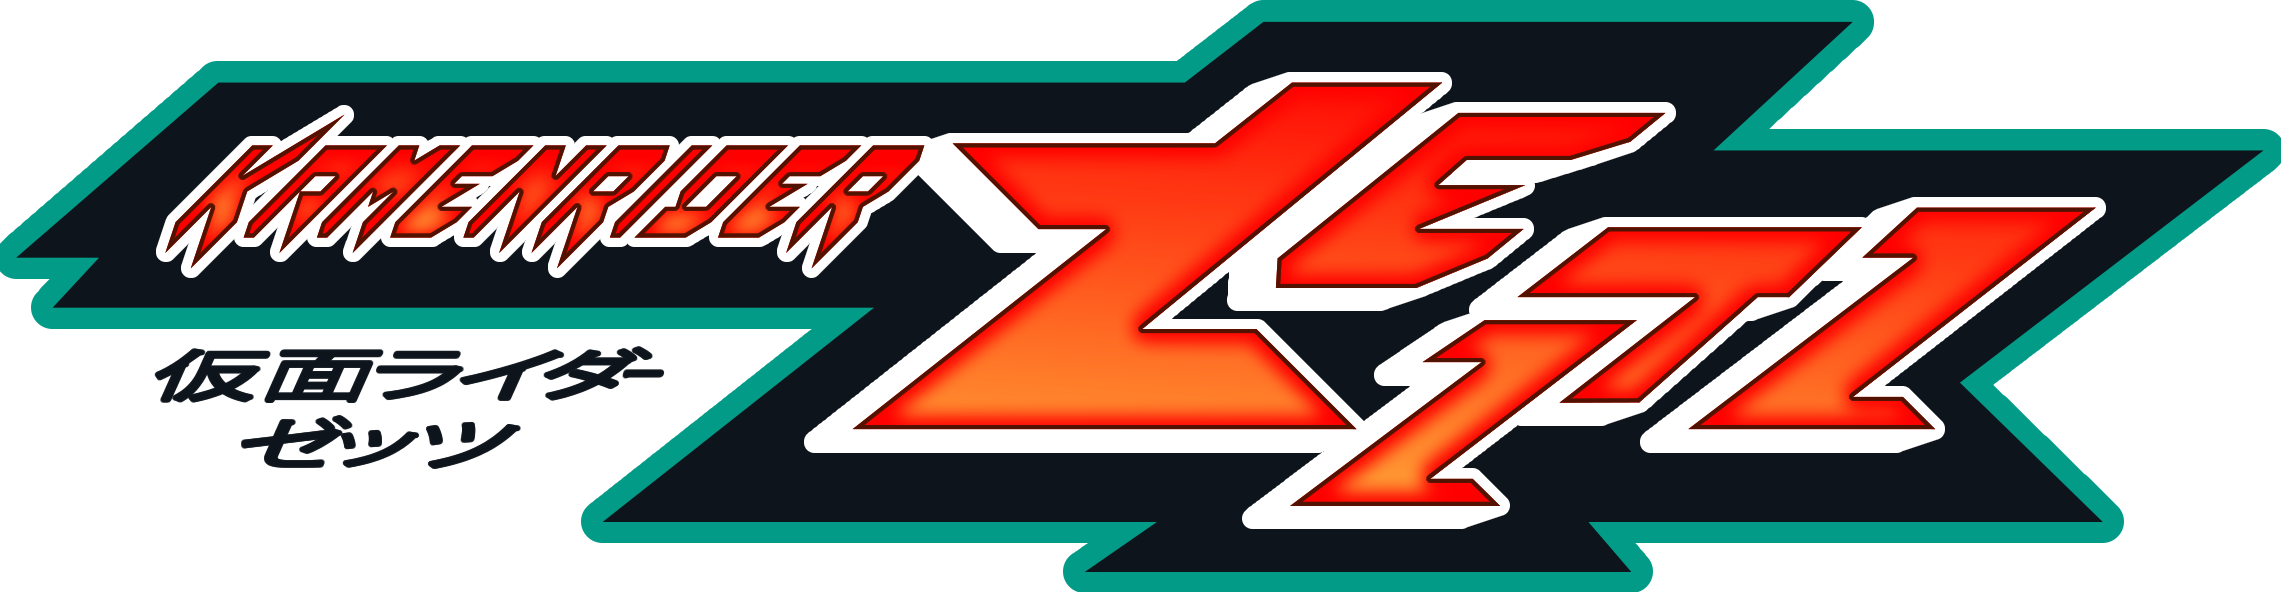
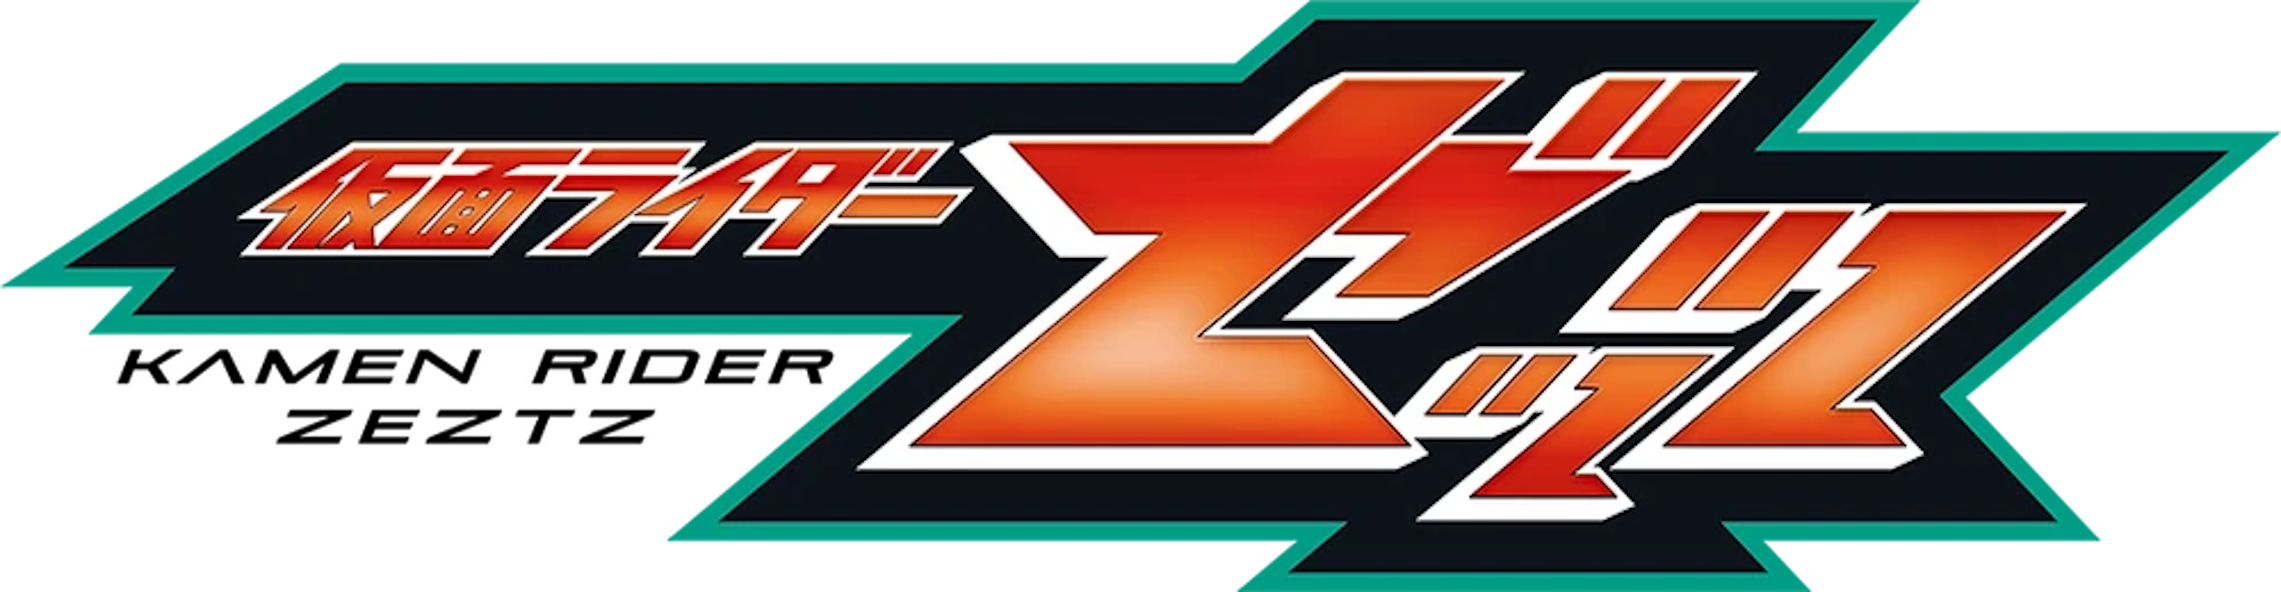
weekend update part 2 off 2
also fix zeztz logo with offical one because i accidently made a silly mistake and used a fanmade one oops

diff --git a/legend/blade.html b/legend/blade.html
@@ -65,6 +65,7 @@ table, th, td {
 <table class="center">
     <tr>
         <th><button onclick="legendcapsem('blade')"><img src="../capsem/legend/blade.png" width="50" height="50" alt="blade"></button></th>
+        <th><button onclick="legendcapsem('garren')"><img src="../capsem/legend/garren.png" width="50" height="50" alt="blade"></button></th>
     </tr>
 </table>
 

diff --git a/legend/legend_rider.js b/legend/legend_rider.js
@@ -57,6 +57,12 @@ const capsemData = {
         color: "rgba(0, 38, 255, 1)",
         info: "the first rider to have the gimmick of cards"
     },
+    garren: {
+        key: "garren",
+        name: "Garren",
+        color: "rgba(43, 255, 0, 1)",
+        info: "blade secondary rider garren!"
+    },
     hibiki: {
         key: "hibiki",
         name: "Hibiki",
